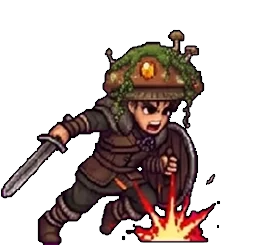
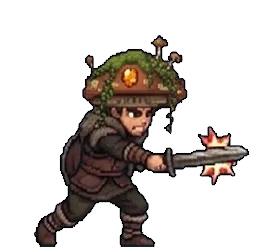
Mossbloom Cap critical frames swapped: sscritical is the 274 frame, sscritical2 the 255 frame
Claude-Session: https://claude.ai/code/session_01W4v7cyzS6Fr8aMVaGgywWE

diff --git a/index.html b/index.html
@@ -1116,17 +1116,17 @@
     </div>
 
     <!-- SCRIPTS -->
-    <script src="data/items.js?v=20261105a"></script>
+    <script src="data/items.js?v=20261105b"></script>
     <script src="data/monsters.js"></script>
-    <script src="data/maps.js?v=20261105a"></script>
+    <script src="data/maps.js?v=20261105b"></script>
     <script src="https://cdn.jsdelivr.net/npm/@supabase/supabase-js@2.45.4/dist/umd/supabase.js"></script>
-    <script src="js/player.js?v=20261105a"></script>
-    <script src="js/audio.js?v=20261105a"></script>
-    <script src="js/cloud.js?v=20261105a"></script>
-    <script src="js/combat.js?v=20261105a"></script>
-    <script src="js/ui.js?v=20261105a"></script>
-    <script src="js/town.js?v=20261105a"></script>
-    <script src="js/loader.js?v=20261105a"></script>
+    <script src="js/player.js?v=20261105b"></script>
+    <script src="js/audio.js?v=20261105b"></script>
+    <script src="js/cloud.js?v=20261105b"></script>
+    <script src="js/combat.js?v=20261105b"></script>
+    <script src="js/ui.js?v=20261105b"></script>
+    <script src="js/town.js?v=20261105b"></script>
+    <script src="js/loader.js?v=20261105b"></script>
 
 <script>
     // Called by js/loader.js once the loading screen has finished preloading

diff --git a/js/ui.js b/js/ui.js
@@ -673,8 +673,8 @@ const COMBAT_POSE_SETS = {
         IDLE: { src: 'assets/helmet/mossbloom/ssbase.png', w: 288, h: 238, fx: 130.2, fy: 238 },
         ATTACK: { src: 'assets/helmet/mossbloom/ssattack_q85.webp', w: 217, h: 244, fx: 96.2, fy: 244 },
         CRI: [
-            { src: 'assets/helmet/mossbloom/sscritical_q85.webp', w: 255, h: 247, fx: 91.0, fy: 247 },
-            { src: 'assets/helmet/mossbloom/sscritical2_q85.webp', w: 274, h: 245, fx: 108.0, fy: 245 }
+            { src: 'assets/helmet/mossbloom/sscritical_q85.webp', w: 274, h: 245, fx: 108.0, fy: 245 },
+            { src: 'assets/helmet/mossbloom/sscritical2_q85.webp', w: 255, h: 247, fx: 91.0, fy: 247 }
         ],
         DEAD1: { src: 'assets/helmet/mossbloom/chadead1_q85.webp', w: 202, h: 175, fx: 115.0, fy: 170 },
         DEAD2: { src: 'assets/helmet/mossbloom/chadead2_q85.webp', w: 223, h: 133, fx: 103.0, fy: 131 },
